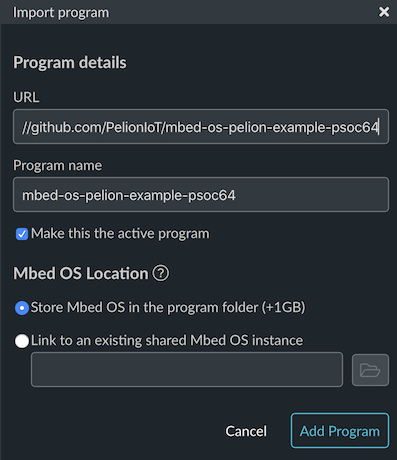
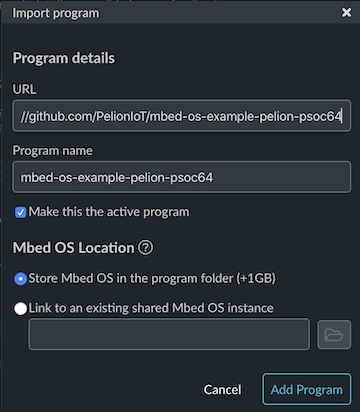
cater for the new repo name.

diff --git a/README.md b/README.md
@@ -29,7 +29,7 @@ This document guides you through all of the steps required to run Device Managem
 From the **Mbed Studio** menu bar, select **File** > **Import Program...** and on the `URL` textbox enter the path to this repository:
 
 ```
-https://github.com/PelionIoT/mbed-os-pelion-example-psoc64
+https://github.com/PelionIoT/mbed-os-example-pelion-psoc64
 ```
 
 Leave the rest of the dialog options as is and click **Add Program**. The checkout takes some time since it downloads and initalizes both Mbed OS and the dependant  libraries, so be patient!
@@ -55,7 +55,7 @@ You need to carry out this step only once on each board to be able to re-provisi
 1. In the Mbed Studio terminal, set up your project workspace for CySecureTools and create keys for provisioning:
 
     ```
-    cd ./mbed-os-pelion-example-psoc64/mbed-os/targets/TARGET_Cypress/TARGET_PSOC6/TARGET_CYTFM_064B0S2_4343W
+    cd ./mbed-os-example-pelion-psoc64/mbed-os/targets/TARGET_Cypress/TARGET_PSOC6/TARGET_CYTFM_064B0S2_4343W
     ```
 
     ```
@@ -80,7 +80,7 @@ You need to carry out this step only once on each board to be able to re-provisi
 
 1. To provision the board with basic configuration, run:
 
-   _Still within mbed-os-pelion-example-psoc64/mbed-os/targets/TARGET_Cypress/TARGET_PSOC6/TARGET_CYTFM_064B0S2_4343W_
+   _Still within mbed-os-example-pelion-psoc64/mbed-os/targets/TARGET_Cypress/TARGET_PSOC6/TARGET_CYTFM_064B0S2_4343W_
 
     ```
     cysecuretools -t cy8ckit-064b0s2-4343w -p policy/policy_multi_CM0_CM4_tfm.json provision-device
@@ -101,12 +101,12 @@ For more information about the initial provisioning process, please see the ["Pr
 1. Navigate to the root of the project and enter the `TARGET_CYTFM_064B0S2_4343W` directory:
 
     ```
-    cd mbed-os-pelion-example-psoc64/TARGET_CYTFM_064B0S2_4343W
+    cd mbed-os-example-pelion-psoc64/TARGET_CYTFM_064B0S2_4343W
     ```
 
 1. Create a `certificates` directory:
 
-    _Within mbed-os-pelion-example-psoc64/TARGET_CYTFM_064B0S2_4343W_
+    _Within mbed-os-example-pelion-psoc64/TARGET_CYTFM_064B0S2_4343W_
 
     ```
     mkdir certificates
@@ -145,9 +145,9 @@ For more information about the initial provisioning process, please see the ["Pr
 
     ![certificate-upload](./img/certificate.gif "Certificate Upload")
 
-1. Set up your project workspace for CySecureTools and create keys based on the [`cytfm_pelion_policy.json`](https://github.com/ARMmbed/mbed-os-pelion-example-psoc64/blob/armdevsummit/TARGET_CYTFM_064B0S2_4343W/policy/cytfm_pelion_policy.json) policy:
+1. Set up your project workspace for CySecureTools and create keys based on the [`cytfm_pelion_policy.json`](https://github.com/ARMmbed/mbed-os-example-pelion-psoc64/blob/armdevsummit/TARGET_CYTFM_064B0S2_4343W/policy/cytfm_pelion_policy.json) policy:
 
-    _Still within mbed-os-pelion-example-psoc64/TARGET_CYTFM_064B0S2_4343W_
+    _Still within mbed-os-example-pelion-psoc64/TARGET_CYTFM_064B0S2_4343W_
 
     ```
     cysecuretools -t cy8ckit-064b0s2-4343w init
@@ -228,7 +228,7 @@ For more information about the initial provisioning process, please see the ["Pr
 
         Once the access key is created, pass it as a parameter:
 
-        _Within the top level project directory: mbed-os-pelion-example-psoc64_
+        _Within the top level project directory: mbed-os-example-pelion-psoc64_
 
         ```
         manifest-dev-tool init --force -a [access key from Device Management Portal]
@@ -261,8 +261,8 @@ For more information about the initial provisioning process, please see the ["Pr
     ```
     020-09-16 15:41:57,783 : C : INFO  : Image for slot BOOT signed successfully! (BUILD/CYTFM_064B0S2_4343W/ARMC6\tfm_s.hex)
     2020-09-16 15:41:58,168 : C : INFO  : Image for slot UPGRADE signed successfully! (BUILD/CYTFM_064B0S2_4343W/ARMC6\tfm_s_upgrade.hex)
-    2020-09-16 15:42:00,372 : C : INFO  : Image for slot BOOT signed successfully! (BUILD/CYTFM_064B0S2_4343W/ARMC6\mbed-os-pelion-example-psoc64.hex)
-    2020-09-16 15:42:01,813 : C : INFO  : Image for slot UPGRADE signed successfully! (BUILD/CYTFM_064B0S2_4343W/ARMC6\mbed-os-pelion-example-psoc64_upgrade.hex)
+    2020-09-16 15:42:00,372 : C : INFO  : Image for slot BOOT signed successfully! (BUILD/CYTFM_064B0S2_4343W/ARMC6\mbed-os-example-pelion-psoc64.hex)
+    2020-09-16 15:42:01,813 : C : INFO  : Image for slot UPGRADE signed successfully! (BUILD/CYTFM_064B0S2_4343W/ARMC6\mbed-os-example-pelion-psoc64_upgrade.hex)
     | Module                                        |      .text |    .data |       .bss |
     |-----------------------------------------------|------------|----------|------------|
     | TARGET_CYTFM_064B0S2_4343W\cy_factory_flow.o  |   2113(+0) |    0(+0) |   2000(+0) |
@@ -292,8 +292,8 @@ For more information about the initial provisioning process, please see the ["Pr
     | Subtotals                                     | 877561(+0) | 1182(+0) | 137852(+0) |
     Total Static RAM memory (data + bss): 139034(+0) bytes
     Total Flash memory (text + data): 878743(+0) bytes
-    Update Image: BUILD/CYTFM_064B0S2_4343W/ARMC6\mbed-os-pelion-example-psoc64_update.bin
-    Image: BUILD/CYTFM_064B0S2_4343W/ARMC6\mbed-os-pelion-example-psoc64.hex
+    Update Image: BUILD/CYTFM_064B0S2_4343W/ARMC6\mbed-os-example-pelion-psoc64_update.bin
+    Image: BUILD/CYTFM_064B0S2_4343W/ARMC6\mbed-os-example-pelion-psoc64.hex
     ```
 
     > **Notes:**
@@ -306,7 +306,7 @@ For more information about the initial provisioning process, please see the ["Pr
 1. Click the run icon (<img src="img/run.png" height="25">) to flash and run the application:
 
     Alternatively, you can flash the application directly:
-    1. Drag and drop the hex output file (`BUILD/CYTFM_064B0S2_4343W/ARMC6/mbed-os-pelion-example-psoc64.hex`) to the mounted drive for the board.
+    1. Drag and drop the hex output file (`BUILD/CYTFM_064B0S2_4343W/ARMC6/mbed-os-example-pelion-psoc64.hex`) to the mounted drive for the board.
     1. Reset the board.
 
 1. Open the serial monitor (click **View** > **Serial Monitor** in Mbed Studio) and choose baud rate `115200`.
@@ -337,7 +337,7 @@ We currently support updating the example application in the CM4 core.
 
 **To update the example application:**
 
-1. Update the firmware version in the [`TARGET_CYTFM_064B0S2_4343W/policy/cytfm_pelion_policy.json`](https://github.com/ARMmbed/mbed-os-pelion-example-psoc64/blob/armdevsummit/TARGET_CYTFM_064B0S2_4343W/policy/cytfm_pelion_policy.json) file:
+1. Update the firmware version in the [`TARGET_CYTFM_064B0S2_4343W/policy/cytfm_pelion_policy.json`](https://github.com/ARMmbed/mbed-os-example-pelion-psoc64/blob/armdevsummit/TARGET_CYTFM_064B0S2_4343W/policy/cytfm_pelion_policy.json) file:
 
     1. Go to `"id": 16` in the file.
 
@@ -349,23 +349,23 @@ We currently support updating the example application in the CM4 core.
 
 1. Click the hammer icon (<img src="img/hammer.png" height="30">) to build the upgraded signed image:
 
-    This creates a `./BUILD/CYTFM_064B0S2_4343W/ARMC6/mbed-os-pelion-example-psoc64_upgrade.hex` file.
+    This creates a `./BUILD/CYTFM_064B0S2_4343W/ARMC6/mbed-os-example-pelion-psoc64_upgrade.hex` file.
 
     The manifest tool does not currently support hex files; therefore, you must convert the image to bin format.
 
 1. Convert the upgrade image from hex to bin format. Open Mbed Studio terminal and in the root of the project enter:
 
-    _within the top level project directory: mbed-os-pelion-example-psoc64_
+    _within the top level project directory: mbed-os-example-pelion-psoc64_
 
     ```
-    python inthex2bin.py BUILD/CYTFM_064B0S2_4343W/ARMC6/mbed-os-pelion-example-psoc64_upgrade.hex
+    python inthex2bin.py BUILD/CYTFM_064B0S2_4343W/ARMC6/mbed-os-example-pelion-psoc64_upgrade.hex
     ```
-    This creates the `./BUILD/CYTFM_064B0S2_4343W/ARMC6/mbed-os-pelion-example-psoc64_upgrade.bin` file.
+    This creates the `./BUILD/CYTFM_064B0S2_4343W/ARMC6/mbed-os-example-pelion-psoc64_upgrade.bin` file.
 
 1. Perform the update:
 
     ```
-    manifest-dev-tool update-v1 --payload-path BUILD/CYTFM_064B0S2_4343W/ARMC6/mbed-os-pelion-example-psoc64_upgrade.bin --fw-version <new firmware version> --device-id <device ID> --start-campaign --wait-for-completion --no-cleanup --timeout 3600
+    manifest-dev-tool update-v1 --payload-path BUILD/CYTFM_064B0S2_4343W/ARMC6/mbed-os-example-pelion-psoc64_upgrade.bin --fw-version <new firmware version> --device-id <device ID> --start-campaign --wait-for-completion --no-cleanup --timeout 3600
     ```
 
     Where:
